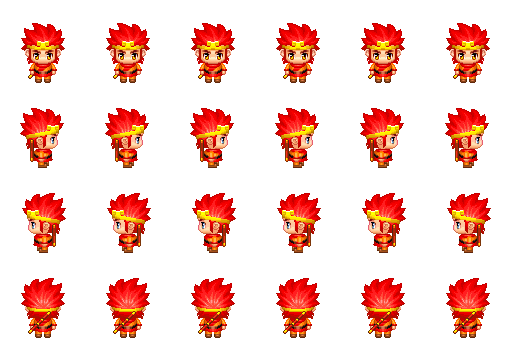
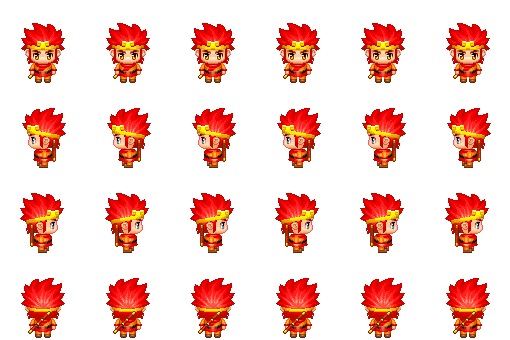
fix(web): correct actor facing and add proactive cooperative attacks

diff --git a/web/bun_coop_hunter_bot.js b/web/bun_coop_hunter_bot.js
@@ -13,13 +13,14 @@
   class BunCoopHunterBot extends Base.BunHunterBot {
     constructor(options = {}) {
       super(options);
-      this.cfg.maxLiveBombs = Math.min(this.cfg.maxLiveBombs, 3);
+      this.cfg.maxLiveBombs = Math.min(this.cfg.maxLiveBombs, 4);
     }
 
     reset(seed) {
       super.reset(seed);
       this.assignment = null;
       this.lastGoalMode = null;
+      this.chainPlan = null;
     }
 
     analyzeSim(sim, pid) {
@@ -73,7 +74,18 @@
     }
 
     chooseGoal(state, g, pid, pred, perceive) {
-      const goal = this.selectGoal(state, g, pid, pred, perceive);
+      let goal = this.selectGoal(state, g, pid, pred, perceive);
+      const plan = this.chainPlan;
+      if (plan) {
+        const ray = this.blastCells(state, g, plan.cell, state.players[pid].blast);
+        if (state.tick >= plan.expires || !g.open[plan.cell] || g.bombAt[plan.cell] >= 0 ||
+            !state.bombs.some((b) => b.cell === plan.anchor && b.owner === pid) ||
+            !this.enemiesOf(state, pid).some((q) => state.players[q].alive &&
+              !state.players[q].trapped && ray.has(state.players[q].cell))) this.chainPlan = null;
+      }
+      if (this.chainPlan && ['HUNT', 'SUPPORT', 'RAID'].includes(goal.mode)) {
+        goal = { mode: 'CHAIN', seeds: [{ cell: plan.cell, cost: 0 }], threat: false, noDig: true };
+      }
       this.lastGoalMode = goal.mode;
       return goal;
     }
@@ -174,7 +186,9 @@
 
     considerBomb(state, g, pid, pred, perceive, field) {
       if (this.lastGoalMode === 'RESCUE') return null;
-      const candidate = super.considerBomb(state, g, pid, pred, perceive, field);
+      const candidate = (this.lastGoalMode === 'CHAIN' ? this.tacticalBomb(state, g, pid, field) : null)
+        || super.considerBomb(state, g, pid, pred, perceive, field)
+        || this.tacticalBomb(state, g, pid, field);
       if (!candidate) return null;
       const me = state.players[pid];
       const mine = { cell: me.cell, e: Base.NEW_BOMB_TICK, blast: me.blast };
@@ -207,7 +221,106 @@
           }
         }
       }
+      if (candidate.nextCell != null) this.chainPlan = { cell: candidate.nextCell, anchor: me.cell,
+        expires: state.tick + Base.NEW_BOMB_TICK - 8 };
+      else if (this.lastGoalMode === 'CHAIN') this.chainPlan = null;
       return candidate;
+    }
+
+    blastCells(state, g, cell, blast) {
+      const cells = new Set([cell]);
+      for (let a = 0; a < 4; a++) {
+        let c = cell;
+        for (let n = 0; n < blast; n++) {
+          c = g.nb[c * 4 + a];
+          if (c < 0 || state.wall[c]) break;
+          cells.add(c);
+          if (state.brick[c] || g.bombAt[c] >= 0) break;
+        }
+      }
+      return cells;
+    }
+
+    routeDistance(g, start, targets, blocked = -1) {
+      const dist = new Int16Array(g.N).fill(-1), queue = [start];
+      dist[start] = 0;
+      for (let i = 0; i < queue.length; i++) {
+        const c = queue[i];
+        if (targets.has(c)) return dist[c];
+        for (let a = 0; a < 4; a++) {
+          const n = g.nb[c * 4 + a];
+          if (n < 0 || n === blocked || !g.open[n] || g.bombAt[n] >= 0 || dist[n] >= 0) continue;
+          dist[n] = dist[c] + 1; queue.push(n);
+        }
+      }
+      return INF;
+    }
+
+    pickMove(g, me, acts, esc, field, threatened, danger) {
+      if (this.lastGoalMode === 'CHAIN') return super.pickMove(g, me, acts, esc, field, false, null);
+      return super.pickMove(g, me, acts, esc, field, threatened, danger);
+    }
+
+    tacticalBomb(state, g, pid, field) {
+      const me = state.players[pid];
+      if (this.difficulty === 'easy' || me.carrying >= 0 || me.bombsLeft <= 0 ||
+          me.liveBombs >= this.cfg.maxLiveBombs || g.bombAt[me.cell] >= 0 || !g.open[me.cell] ||
+          !['HUNT', 'SUPPORT', 'DEFEND', 'INTERCEPT', 'ESCORT', 'CHAIN'].includes(this.lastGoalMode)) return null;
+      const foes = this.enemiesOf(state, pid).map((q) => state.players[q]).filter((e) =>
+        e.alive && !e.trapped && e.invuln < Base.NEW_BOMB_TICK && distance(me, e) <= this.cfg.attackRadius);
+      if (!foes.length) return null;
+      const mine = { cell: me.cell, e: Base.NEW_BOMB_TICK, blast: me.blast };
+      const before = this.predict(state, g, [], () => true);
+      const after = this.predict(state, g, [mine], () => true);
+      const blast = this.blastCells(state, g, me.cell, me.blast);
+      const oldDanger = this.dangerCells(before, g.N), danger = this.dangerCells(after, g.N);
+      let reason = null, nextCell = null;
+      if (this.chainPlan && me.cell === this.chainPlan.cell && blast.has(this.chainPlan.anchor) &&
+          foes.some((e) => blast.has(e.cell))) reason = 'bomb_chain';
+      const home = new Set(this.baseCells(state, g, me.team));
+      for (const foe of foes) {
+        if (reason) break;
+        const approach = this.routeDistance(g, foe.cell, home);
+        if (approach <= 7 && distance(me, foe) <= 5 && me.cell !== foe.cell &&
+            this.routeDistance(g, foe.cell, home, me.cell) >= approach + 3) {
+          reason = 'bomb_block'; break;
+        }
+        if (danger[foe.cell] && !oldDanger[foe.cell]) {
+          const linked = state.bombs.some((b) => state.players[b.owner] &&
+            state.players[b.owner].team === me.team && blast.has(b.cell));
+          reason = linked ? 'bomb_chain' : 'bomb_pressure'; break;
+        }
+      }
+      // Reserve a first bubble only when a reachable second placement connects to it and aims at a foe.
+      if (!reason && me.bombsLeft >= 2 && me.liveBombs === 0 && me.liveBombs + 1 < this.cfg.maxLiveBombs &&
+          ['HUNT', 'SUPPORT'].includes(this.lastGoalMode)) {
+        let best = INF;
+        for (const cell of blast) {
+          if (cell === me.cell || !g.open[cell] || g.bombAt[cell] >= 0) continue;
+          const travel = this.routeDistance(g, me.cell, new Set([cell]));
+          const ticks = Math.ceil(travel / this.stepLen(me, false));
+          if (ticks < 1 || ticks + 10 >= after.bombGone[me.cell]) continue;
+          const secondRay = this.blastCells(state, g, cell, me.blast);
+          if (!foes.some((e) => secondRay.has(e.cell) && !blast.has(e.cell))) continue;
+          const future = { ...me, cell, row: Math.floor(cell / g.W), col: cell % g.W,
+            y: Math.floor(cell / g.W) + 0.5, x: cell % g.W + 0.5 };
+          const shifted = { ...state, bombs: state.bombs.map((b) => ({ ...b, fuse: Math.max(1, b.fuse - ticks) })) };
+          const connected = this.predict(shifted, g, [
+            { ...mine, e: after.bombGone[me.cell] - ticks },
+            { cell, e: Base.NEW_BOMB_TICK, blast: me.blast },
+          ], () => true);
+          if (!this.escape(g, connected, future, false).surv) continue;
+          if (travel < best) { best = travel; nextCell = cell; reason = 'bomb_reserve'; }
+        }
+      }
+      if (!reason) return null;
+      const escape = this.escape(g, after, me, false);
+      let safe = escape.surv;
+      if (this.cfg.robust) safe &= this.hypoSurvivors(state, g, pid, () => true, [mine]);
+      if (!safe) return null;
+      const targetField = nextCell == null ? field : this.goalField(state, g,
+        [{ cell: nextCell, cost: 0 }], me, after, null, true);
+      return { move: this.pickMove(g, me, safe, escape, targetField, true, danger), reason, nextCell };
     }
 
   }

diff --git a/web/test_bun_coop_hunter_bot.js b/web/test_bun_coop_hunter_bot.js
@@ -154,11 +154,63 @@ const decide = (sim, pid) => bot().analyze(Hunter.hunterStateFromSim(sim), pid);
   second.act(sim, 2);
   assert.equal(observed.length, 0, 'commitments expire at the next tick');
 }
+{
+  const sim = scene([0, 1, 1], [[5.5, 8.5], [10.5, 12.5], [3.5, 8.5]]);
+  sim.bunStored = [[0, 0], [0, 0]];
+  sim.spdG.fill(1); sim.blastCap.fill(1);
+  for (let row = 1; row < 7; row++) for (const col of [7, 9]) sim.wall[row * W + col] = 1;
+  sim.wall[3 * W + 9] = 0;
+  const defender = bot(), first = defender.analyzeSim(sim, 2);
+  assert.equal(first.mode, 'DEFEND');
+  assert.equal(first.reason, 'bomb_block', 'defender blocks the only base approach before a direct shot');
+  const info = sim.step([[QQT.MOVE_UP, 0, 0, 0], [4, 0, 0, 0], [...first.action, 0, 0]]);
+  assert(info.placed[2] && sim.fuse[3 * W + 8] > 0, 'blocking bubble enters actual physics');
+  for (let t = 0; t < 12; t++) {
+    sim.step([[QQT.MOVE_UP, 0, 0, 0], [4, 0, 0, 0], [...defender.act(sim, 2), 0]]);
+    assert(sim.pos[0] >= 4 && sim.alive[2] && !sim.trapped[2], 'bubble stops the enemy while defender escapes');
+  }
+}
+{
+  const sim = scene([0, 1, 1], [[7.5, 7.5], [5.5, 5.5], [10.5, 12.5]]);
+  sim.bunStored = [[0, 0], [0, 0]];
+  sim.spdG.fill(1); sim.blastCap.fill(3); sim.bombsCap.fill(5);
+  const attacker = bot();
+  let anchor, connector, connectedTick, chainExploded = false;
+  for (let tick = 0; tick < 34; tick++) {
+    const decision = attacker.analyzeSim(sim, 1);
+    const cell = sim.centerCell(1)[0] * W + sim.centerCell(1)[1];
+    if (tick === 0) {
+      assert.equal(decision.reason, 'bomb_reserve', 'first bubble prepares a corner connection');
+      assert.equal(decision.action[1], 1);
+      anchor = cell;
+    }
+    if (decision.reason === 'bomb_chain') { connector = cell; connectedTick = tick; }
+    const info = sim.step([[4, 0, 0, 0], [...decision.action, 0, 0], [4, 0, 0, 0]]);
+    assert(sim.alive[1] && !sim.trapped[1], 'attacker survives its real chain attack');
+    if (info.triggered[anchor] && connector != null && info.triggered[connector]) {
+      chainExploded = true;
+      assert(tick < connectedTick + 30, 'connector detonates early through the reserve bubble');
+      assert(sim.trapped[0] > 0, 'connected ray actually traps the enemy outside the first ray');
+    }
+  }
+  assert(connector != null && chainExploded, 'reserve plan leads to a second placement and real chain explosion');
+}
 for (const difficulty of ['easy', 'normal', 'hard']) {
   const sim = scene([0, 1, 1], [[11.5, 1.5], [5.5, 9.5], [5.5, 5.5]]);
   sim.trapped[1] = 60;
   const rescue = new Coop.BunCoopHunterBot({ difficulty, seed: 3, overrides: { mistakeRate: 0 } });
   for (let t = 0; t < 40 && sim.trapped[1]; t++) sim.step([[4, 0, 0, 0], [4, 0, 0, 0], [...rescue.act(sim, 2), 0]]);
   assert(sim.alive[1] && !sim.trapped[1], `${difficulty} completes actual rescue`);
+}
+{
+  const sim = scene([0, 1, 1], [[7.5, 7.5], [5.5, 5.5], [10.5, 12.5]]);
+  sim.bunStored = [[0, 0], [0, 0]];
+  sim.spdG.fill(1); sim.blastCap.fill(3); sim.bombsCap.fill(5);
+  const attacker = bot(), decision = attacker.analyzeSim(sim, 1);
+  assert.equal(decision.reason, 'bomb_reserve');
+  sim.step([[4, 0, 0, 0], [...decision.action, 0, 0], [4, 0, 0, 0]]);
+  sim.pos[0] = 11.5; sim.pos[1] = 1.5;
+  attacker.analyzeSim(sim, 1);
+  assert.equal(attacker.chainPlan, null, 'cancel the reserve connection after the enemy leaves its target ray');
 }
 console.log('Cooperative hunter: roles, takeover, rescue, delivery, escort, interception and friendly safety passed');

diff --git a/web/test_native_restoration.js b/web/test_native_restoration.js
@@ -82,19 +82,22 @@ for (const [ms, allowed] of [[500, false], [501, true], [599, true], [600, false
   assert(!sim._activateNativePass(0), '100ms stale contact must not activate passage');
 }
 {
-  const sim = scene({ bananaSlideSpeedPx: 300 });
+  const sim = scene({ bananaSlideSpeedPx: 360 });
   sim.spdG[0] = 2.4;
-  sim._setMovementStatus(0, Q.MOVE_STATUS_SLIDE); sim.slideDir[0] = Q.MOVE_RIGHT;
+  const cell = sim.centerCell(0)[0] * Q.W + sim.centerCell(0)[1];
+  sim.fieldItem[cell] = Q.ITEM_BANANA; sim.fieldArmed[cell] = 1; sim.fieldOwner[cell] = 1;
+  sim.step([[Q.MOVE_RIGHT, 0, 0, 1], [Q.MOVE_IDLE, 0, 0, 1]]);
+  assert.equal(sim.movementStatus[0], Q.MOVE_STATUS_SLIDE, 'actual banana contact activates sliding');
   const x = sim.pos[1];
   for (let i = 0; i < 10; i++) sim.frameStep(0, Q.MOVE_LEFT, 0.02);
-  assert(Math.abs((sim.pos[1] - x) * 40 - 60) < 1, '300px/s slide ignores steering');
+  assert(Math.abs((sim.pos[1] - x) * 40 - 72) < 1, '360px/s slide ignores steering');
   sim.wall[4 * Q.W + 7] = 1;
   for (let i = 0; i < 100 && sim.movementStatus[0] === Q.MOVE_STATUS_SLIDE; i++) sim.frameStep(0, Q.MOVE_LEFT, 0.02);
   assert.equal(sim.movementStatus[0], Q.MOVE_STATUS_NONE, 'fast slide stops at obstacles');
   assert(sim.pos[1] < 7, 'slide cannot tunnel through a wall');
   const restored = scene();
   restored.restoreReplay(sim.snapshotReplay());
-  assert.equal(restored.bananaSlideSpeedPx, 300, 'replay preserves custom banana speed');
+  assert.equal(restored.bananaSlideSpeedPx, 360, 'replay preserves custom banana speed');
   const original = scene().snapshotReplay();
   assert(!Object.hasOwn(original, 'bananaSlideSpeedPx'), 'default speed preserves legacy replay schema');
   restored.restoreReplay(original);

diff --git a/web/test_web_feel.js b/web/test_web_feel.js
@@ -197,6 +197,25 @@ function playerGx(draws, pid) {
   return (hit.x + hit.w / 2) / CELL;
 }
 
+{
+  const { canvas, draws } = mockCanvas(), assets = mockAssets();
+  const rows = ['down', 'left', 'right', 'up'].map((tag) => [tagImg(`native-${tag}`, 127, 127)]);
+  assets.characters = { maomao: { stand: rows, walk: rows } };
+  const renderer = visual.createRenderer(canvas, level, assets);
+  const sim = fakeSim({ pos: [5.5, 5.5, 9.5, 9.5] });
+  for (const [move, face] of [[QQT.MOVE_LEFT, 'left'], [QQT.MOVE_RIGHT, 'right']]) {
+    draws.length = 0;
+    renderer.render(sim, 1000, { characters: ['maomao'], intents: [move, MOVE_IDLE],
+      prevPos: sim.pos.slice(), curPos: sim.pos.slice(), lastTickT: 1000, tickMs: 100, humanPid: 0 });
+    assert(draws.some((d) => d.tag === `native-${face}`), 'native frame direction follows horizontal input');
+  }
+  sim.movementStatus = [QQT.MOVE_STATUS_SLIDE, 0]; sim.slideDir = [QQT.MOVE_RIGHT, MOVE_IDLE];
+  draws.length = 0;
+  renderer.render(sim, 1100, { characters: ['maomao'], intents: [QQT.MOVE_LEFT, MOVE_IDLE],
+    prevPos: sim.pos.slice(), curPos: sim.pos.slice(), lastTickT: 1000, tickMs: 100, humanPid: 0 });
+  assert(draws.some((d) => d.tag === 'native-right'), 'banana slide faces its forced direction even with opposite input');
+}
+
 // 4a) 本地人类(humanPid=0)raw 不插值；对手(pid1)按 alpha 插值。
 {
   const { canvas, draws } = mockCanvas();

diff --git a/web/visual_renderer.js b/web/visual_renderer.js
@@ -312,7 +312,8 @@
     function updateFaces(sim, intents) {
       const previous = lastPositions;
       for (let pid = 0; pid < playerCount(sim); pid++) {
-        const intent = intents ? intents[pid] : MOVE_IDLE;
+        const intent = sim.movementStatus && sim.movementStatus[pid] === 2
+          ? sim.slideDir[pid] : (intents ? intents[pid] : MOVE_IDLE);
         if (intent >= 0 && intent < MOVE_IDLE) { faces[pid] = intent; continue; }
         const dy = previous ? sim.pos[pid * 2] - previous[pid * 2] : 0;
         const dx = previous ? sim.pos[pid * 2 + 1] - previous[pid * 2 + 1] : 0;

diff --git a/web/app.js b/web/app.js
@@ -190,7 +190,7 @@
     // 原版道具栏/糖泡只在真人对局开启；模型评测与录像保持训练规则。
     const native = localHumanControls();
     sim.reset(level, { nativeItems: native, nativeTrap: native, teams: teamLayout(),
-      bananaSlideSpeedPx: native ? 300 : undefined });
+      bananaSlideSpeedPx: native ? 360 : undefined });
     resetBot();
     bombCell = -1;
     itemCell = -1;

diff --git a/scripts/export_client_actor_sprites.py b/scripts/export_client_actor_sprites.py
@@ -45,9 +45,9 @@ def main():
                     layers[part] = (frames, len(frames) // dirs)
                 count = max(n for _, n in layers.values())
                 strip = Image.new('RGBA', (85 * count, 340))
-                # Native order left/up/right/down becomes renderer down/left/right/up.
+                # Native frames face right/up/left/down; renderer rows are down/left/right/up.
                 for direction, suffix in enumerate(('down', 'left', 'right', 'up')):
-                    source_direction = (3, 0, 2, 1)[direction]
+                    source_direction = (3, 2, 0, 1)[direction]
                     order = sorted(layers, key=lambda p: int(zorder[action].get(f'{p}_z_{suffix}', 0)))
                     for frame in range(count):
                         canvas = Image.new('RGBA', (100, 100))

diff --git a/docs/bot_cooperation_20261004.md b/docs/bot_cooperation_20261004.md
@@ -118,7 +118,7 @@ seed `2026100700`，2400 tick，完整原版旧猎手对照。当前策略SHA256
 - 穿炮保留上游严格 500–600ms 接触窗口和100ms新鲜接触条件；上墙按上游 native wall-pass 序列补充了混合墙/泡角点测试。上游说明指出“上墙”不是任意穿墙，而是穿炮窗口与地图碰撞边界组合，普通静态墙仍阻挡。
 - 对齐上游`actor_state.go`：真人糖泡模式只按爆炸时角色中心格判伤，墙边半身位不再因身体与相邻火焰重叠受困。非糖泡训练模式保留既有伤害判定。由于此次原版规则修复改变`sim.js`及糖泡对局轨迹，前面的Bot评估只属于修复前版本，不作为当前规则下胜率提升证据。
[1 lines of base64/hex data omitted]
-- 资源可复现导出：`python scripts/export_client_actor_sprites.py <runtime/client-patched目录>`；合成角色时依据`player_z.ini`分方向排序图层，将原版left/up/right/down方向转成网页down/left/right/up。
+- 资源可复现导出：`python3 scripts/export_client_actor_sprites.py <runtime/client-patched目录>`；合成角色时依据`player_z.ini`分方向排序图层。后续方向修正见下节。
 - `web/test_native_restoration.js`验证32个旋转混合墙/泡用例、真实成功放泡激活穿炮与上墙、窗口边界、状态过期后的实际爆炸避伤与离墙；同时覆盖300px/s强制滑行与碰墙停止、回放速度兼容、爆炸中心格边界/余威、超时和敌方碰爆音效、救援不误播。
 - 专项浏览器验证1440x1000、390x844：皮皮/毛毛资源加载，毛毛选择和头像，13帧糖浆动画、糖浆爆破动画及WAV实际解码均通过。两次糖浆帧检查分别有6231/6408个橙色像素，音频长度0.386秒；无JS异常、资源HTTP错误或横向溢出。截图已人工检查，证据在`runs/native_restoration_20261004/`，结果为`checks.json`。
 
@@ -127,3 +127,15 @@ seed `2026100700`，2400 tick，完整原版旧猎手对照。当前策略SHA256
 - 基线`2ce6704`旧猎手与接口抽取后的旧猎手，在1v1/1v2/2v2、4个seed、1800个模拟tick、5400次决策中动作完全一致。证据：`legacy_parity.json`。
 - 全套`npm test`通过，含协作猎手真实场景验证。
 - 桌面1440x1000和手机390x844的1v1/1v2/2v2渲染、输入、切换通过；canvas非空，资源无404，无JS异常和横向溢出。截图中文字体已用临时解包字体修复，未修改系统或项目依赖。
+
+## 方向修复、香蕉加速与主动放泡
+
+- 修复皮皮/毛毛站立和行走资源的左右方向。实际原版方向为right/up/left/down，导出为网页down/left/right/up；旧导出把左右方向交换了。滑行时朝向使用强制滑行方向，不被反向按键覆盖。
+- 真人香蕉滑行从300提升到360px/s，比上次提高20%；实际踩香蕉后0.2秒位移72px。强制方向、碰墙停止和回放速度仍通过测试；默认模拟器和旧回放速度仍为268px/s。
+- 协作猎手普通/困难增加主动射线施压与基地堵路泡：检查一颗泡是否把敌方到己方基地的路径延长至少3格，并验证自己的逃生首步及队友安全。
+- 备用泡只在有至少两颗可用泡、可及时走到连接点且第二颗泡连接射线能触达敌人时放置；随后优先走向连接点，敌人离开目标射线、连接点被占或窗口到期时取消计划。困难档同时在场泡上限由3增至4，仍受角色实际容量限制。
+- 真实场景测试验证：堵路泡进入模拟器后，敌人持续向基地移动仍被阻挡，防守者脱身；备用泡与连接泡在同tick连锁爆炸，第二颗提前爆炸并困住第一颗射线之外的敌人，进攻者保持存活。救援、搬包、护送和同tick友军安全回归通过。
+- 桌面1440x1000、手机390x844浏览器检查左右帧、反向输入下的滑行朝向、毛毛选择和协作猎手选择，canvas非空、无JS异常或资源错误、无横向溢出；截图与结果位于`runs/native_restoration_20261004/direction_fix/`。
+- 对局快筛seed `2026100900`，806原地图、原版糖泡/道具、困难档，每模式2组换边、1200tick：新版1v1为1胜/1负/2平，放泡162、直接射线威胁55、死亡0；2v2为2胜/0负/2平，放泡239、直接射线威胁79、自困6、友困3、死亡6。对同seed运行`ec4ee57`协作策略：1v1为0胜/0负/4平，放泡199、直接威胁71；2v2为0胜/1负/3平，放泡225、直接威胁82、自困5、友困2、死亡5。
+- 快筛证据为`aggressive_smoke.json`和`aggressive_previous_smoke.json`；新版出现143个单人CHAIN决策tick和339个双人CHAIN决策tick。后续另补敌人离开目标射线时取消计划的保护及场景测试。样本很小，双人自困/友困略增，不能据此宣称稳定胜率或整体攻击威胁提升；网页默认仍为旧猎手，协作猎手可选。
+- 全套`npm test`与`git diff --check`通过。
